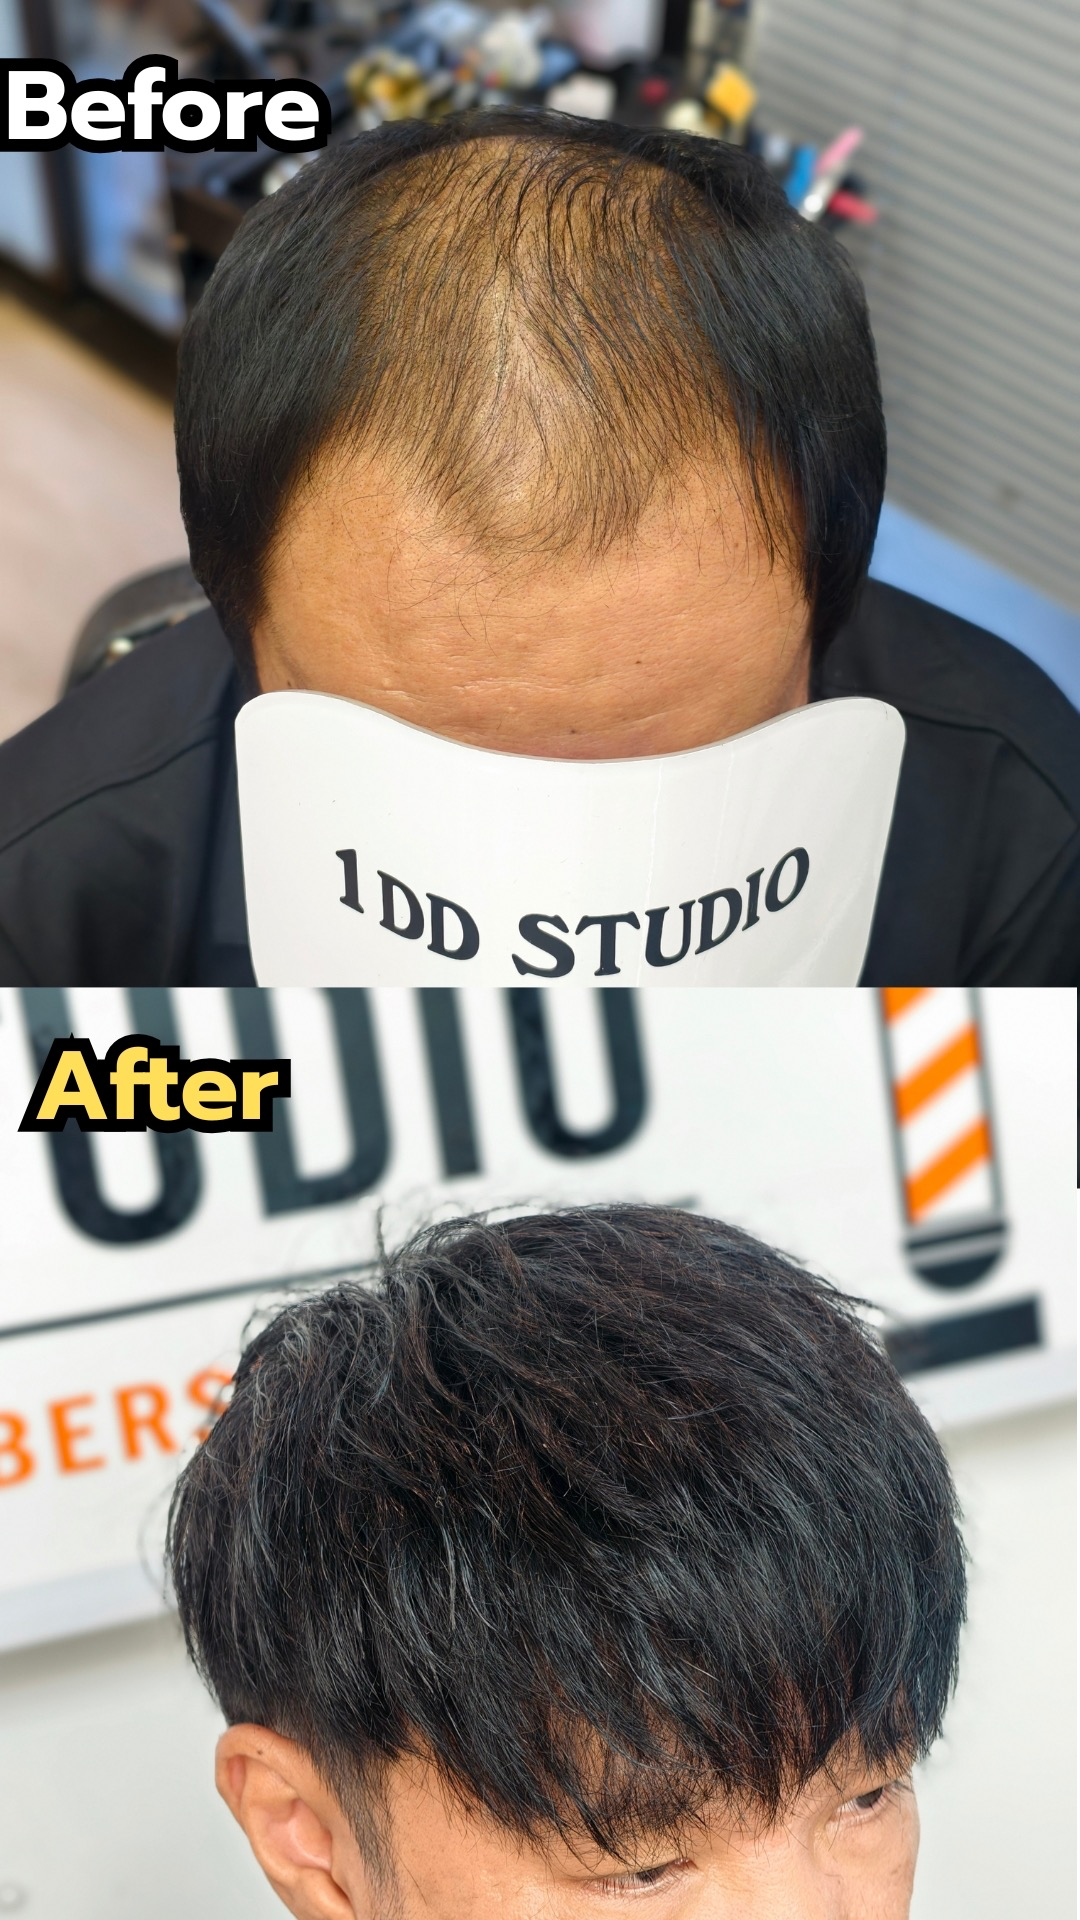
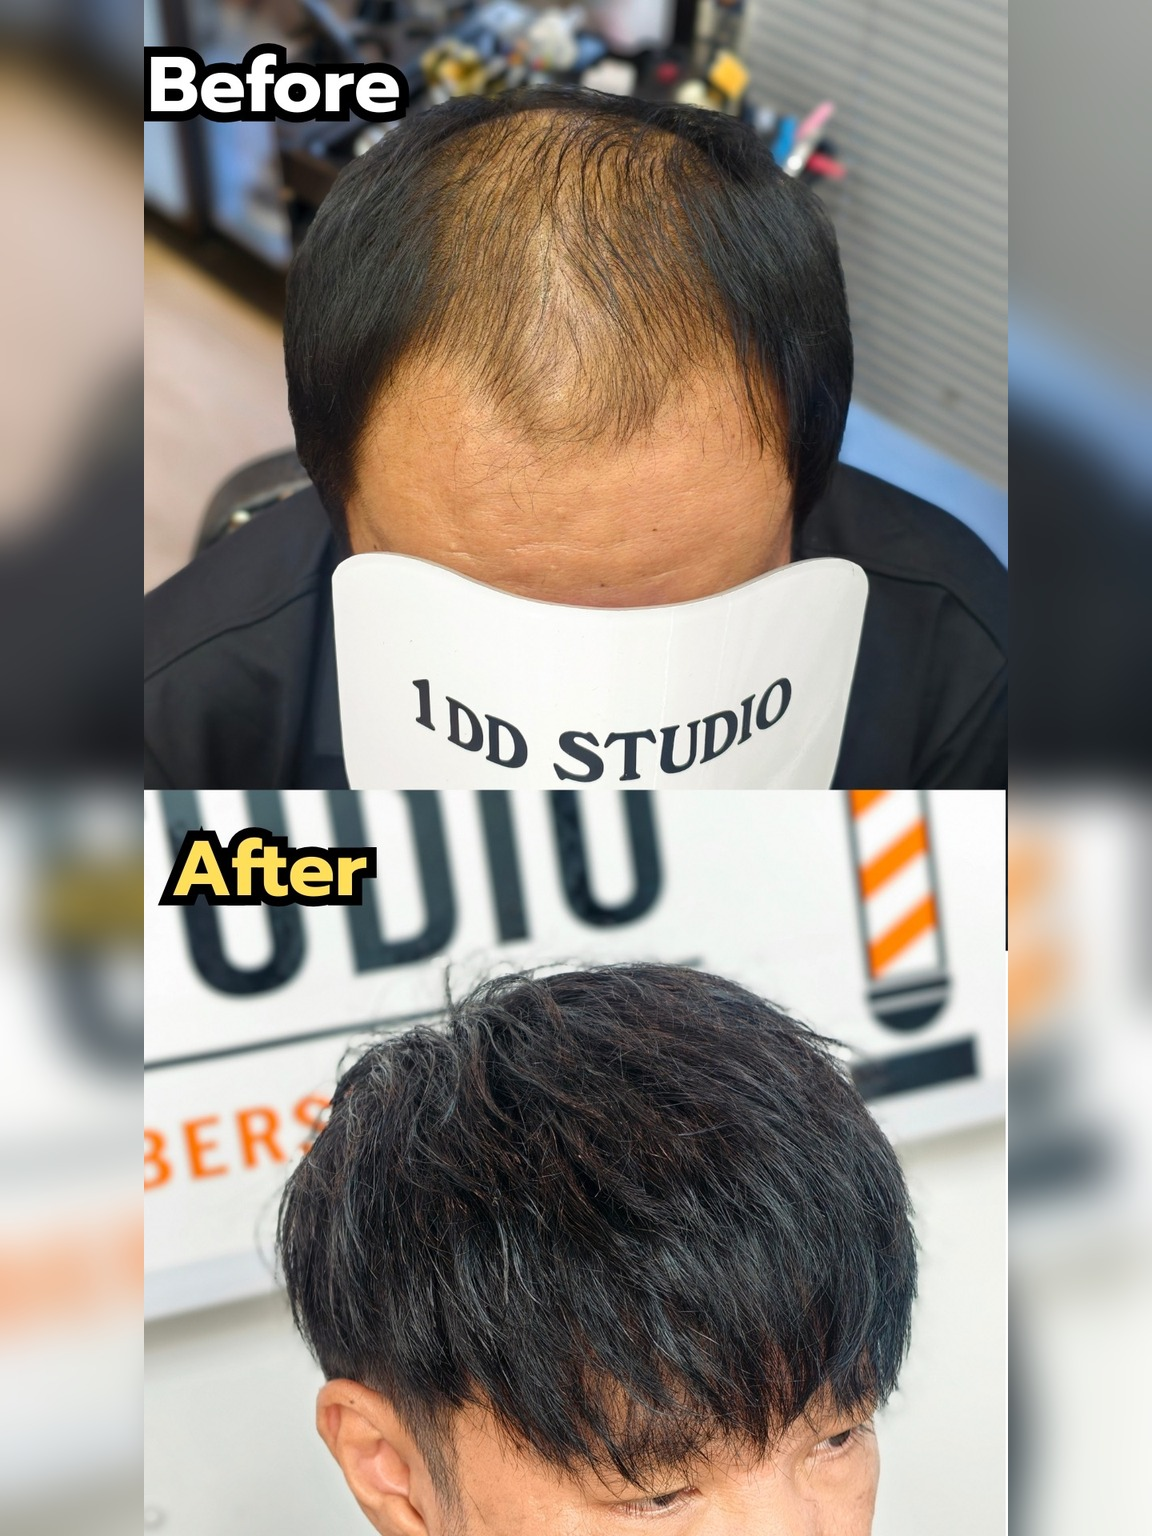
Add files via upload

diff --git a/styles.css b/styles.css
@@ -1,1 +1,77 @@
 :root{--black:#070707;--deep:#111;--gold:#d8ad52;--gold2:#f3cf78;--cream:#f7f0e4;--muted:#9b9286;--white:#fff;--line:rgba(255,255,255,.14);--shadow:0 24px 80px rgba(0,0,0,.35)}*{box-sizing:border-box}html{scroll-behavior:smooth}body{margin:0;font-family:Prompt,system-ui,sans-serif;background:var(--black);color:var(--white)}a{text-decoration:none;color:inherit}.site-shell{overflow:hidden}.topbar{position:fixed;z-index:50;top:0;left:0;right:0;height:72px;display:flex;align-items:center;justify-content:space-between;padding:0 6vw;background:rgba(5,5,5,.82);backdrop-filter:blur(18px);border-bottom:1px solid var(--line)}.logo{font-weight:800;font-size:22px;letter-spacing:.5px;line-height:1}.logo span{color:var(--gold2)}.logo small{display:block;font-size:8px;color:var(--muted);letter-spacing:1.2px;margin-top:3px}nav{display:flex;gap:30px;font-size:14px;color:#e7dfd1}nav a{opacity:.86}.nav-cta,.btn{display:inline-flex;align-items:center;justify-content:center;border-radius:14px;padding:13px 22px;font-weight:700}.nav-cta,.btn.primary{background:linear-gradient(135deg,var(--gold2),var(--gold));color:#18120a;box-shadow:0 8px 25px rgba(216,173,82,.28)}.btn.ghost{border:1px solid rgba(255,255,255,.28);color:white;background:rgba(255,255,255,.04)}.hero{min-height:760px;position:relative;padding:120px 6vw 70px;display:flex;align-items:center}.hero-bg{position:absolute;inset:0;background:url('hero-1.jpg') center/cover no-repeat;filter:saturate(.95) contrast(1.08)}.hero-overlay{position:absolute;inset:0;background:linear-gradient(90deg,rgba(0,0,0,.9),rgba(0,0,0,.55),rgba(0,0,0,.72)),radial-gradient(circle at 75% 25%,rgba(216,173,82,.16),transparent 35%)}.hero-grid{position:relative;width:100%;display:grid;grid-template-columns:minmax(0,1.05fr) minmax(350px,.7fr);gap:48px;align-items:center}.eyebrow{color:var(--gold2);font-size:13px;font-weight:800;letter-spacing:2px;text-transform:uppercase}.hero h1{font-size:clamp(46px,6vw,82px);line-height:1.03;margin:16px 0 22px;max-width:760px}.hero-sub{font-size:21px;line-height:1.75;color:#f3eee6;max-width:780px}.hero-sub-en{color:#c7bdad;line-height:1.65;max-width:760px}.trust-row{display:flex;flex-wrap:wrap;gap:14px;margin:30px 0}.trust-row span{border:1px solid rgba(216,173,82,.35);border-radius:999px;padding:9px 13px;color:#efe4ce;font-size:13px;background:rgba(0,0,0,.35)}.hero-actions{display:flex;gap:14px;flex-wrap:wrap}.hero-card{min-height:420px;border:1px solid rgba(255,255,255,.14);border-radius:30px;background:linear-gradient(180deg,rgba(255,255,255,.1),rgba(255,255,255,.03));box-shadow:var(--shadow);padding:34px;display:flex;flex-direction:column;justify-content:space-between}.studio-badge{text-align:right}.studio-badge b{display:block;color:var(--gold2);font-size:26px}.studio-badge span{display:block;letter-spacing:1px}.studio-badge small{display:block;color:#d0c7b8;margin-top:16px}.mini-video{display:flex;align-items:center;gap:18px}.mini-video span{width:72px;height:72px;border-radius:50%;border:1px solid white;display:grid;place-items:center}.mini-video p{color:#eee}.ba-section,.services,.faq{padding:82px 6vw;background:#0b0b0b}.section-head{max-width:760px;margin-bottom:34px}.section-head h2{font-size:clamp(32px,4vw,56px);line-height:1.16;margin:8px 0}.section-head p{color:#c9c0b2}.ba-grid{display:grid;grid-template-columns:repeat(2,minmax(0,1fr));gap:26px}.ba-card{background:#151515;border:1px solid var(--line);border-radius:28px;overflow:hidden;box-shadow:var(--shadow)}.ba-images{display:grid;grid-template-columns:1fr 1fr}.ba-img{height:360px;background:center/cover no-repeat;position:relative}.ba-img:after{content:attr(data-label);position:absolute;left:16px;bottom:16px;background:rgba(0,0,0,.72);border-radius:999px;padding:8px 12px;font-size:12px;font-weight:700}.ba-info{padding:22px}.ba-info h3{margin:0 0 8px;font-size:22px}.ba-info p{color:#c9c0b2;margin:0}.proof-strip{display:grid;grid-template-columns:repeat(4,1fr);gap:1px;background:#222;padding:1px}.proof-item{background:#111;padding:34px 6vw;text-align:center}.proof-item b{font-size:36px;color:var(--gold2)}.proof-item span{display:block;color:#d7ccbb}.products,.reviews{background:var(--cream);color:#111;padding:90px 6vw}.dark-text .eyebrow{color:#9d7322}.dark-text p{color:#6d6255}.product-grid{display:grid;grid-template-columns:repeat(3,minmax(0,1fr));gap:24px}.product-card{background:#fff;border-radius:28px;border:1px solid #eadfcd;box-shadow:0 18px 50px rgba(52,36,12,.12);overflow:hidden}.product-image{height:230px;background:center/contain no-repeat #fbf8f1}.product-card-content{padding:24px}.product-card h3{font-size:25px;margin:0 0 6px}.price{font-size:28px;font-weight:800;color:#a47418}.product-card ul{padding:0;margin:18px 0 0;list-style:none}.product-card li{margin:10px 0;color:#51483f}.product-card li:before{content:'✓';color:#b9811d;font-weight:800;margin-right:9px}.service-grid{display:grid;grid-template-columns:repeat(5,1fr);gap:16px}.service-item{border:1px solid var(--line);border-radius:22px;padding:22px;background:#141414}.service-item b{color:var(--gold2)}.review-grid{display:grid;grid-template-columns:repeat(3,1fr);gap:20px}.review-card{background:#fff;border-radius:24px;padding:26px;border:1px solid #eadfcd;box-shadow:0 18px 50px rgba(52,36,12,.08)}.review-card p{color:#51483f}.review-card b{color:#a47418}.faq-list{max-width:960px}.faq-item{border-bottom:1px solid var(--line);padding:20px 0}.faq-q{display:flex;justify-content:space-between;cursor:pointer;font-size:20px;font-weight:700}.faq-a{display:none;color:#c9c0b2;line-height:1.8;padding-top:10px}.faq-item.open .faq-a{display:block}.contact{padding:90px 6vw;background:#050505}.contact-card{display:grid;grid-template-columns:1fr 1fr;gap:30px;border:1px solid rgba(216,173,82,.25);background:linear-gradient(135deg,rgba(216,173,82,.13),rgba(255,255,255,.04));border-radius:34px;padding:34px;box-shadow:var(--shadow)}.contact-card h2{font-size:44px;margin:8px 0}.contact-actions{display:flex;gap:12px;flex-wrap:wrap;margin-top:24px}.contact iframe{width:100%;height:360px;border:0;border-radius:24px;filter:saturate(.9)}.floating-line{position:fixed;right:22px;bottom:22px;z-index:60;background:linear-gradient(135deg,var(--gold2),var(--gold));color:#161008;font-weight:800;border-radius:999px;padding:16px 20px;box-shadow:0 14px 40px rgba(0,0,0,.34)}footer{text-align:center;padding:28px;color:#897e70;background:#030303}.reveal{animation:fadeUp .8s ease both}.delay{animation-delay:.18s}@keyframes fadeUp{from{opacity:0;transform:translateY(24px)}to{opacity:1;transform:none}}@media(max-width:900px){.topbar{height:auto;padding:14px 18px;gap:12px;flex-wrap:wrap}nav{order:3;width:100%;overflow:auto;gap:18px}.nav-cta{padding:10px 14px}.hero{padding:150px 22px 56px;min-height:auto}.hero-grid,.contact-card{grid-template-columns:1fr}.hero-card{min-height:260px}.ba-grid,.product-grid,.review-grid{grid-template-columns:1fr}.proof-strip{grid-template-columns:repeat(2,1fr)}.proof-item{padding:24px 12px}.service-grid{grid-template-columns:1fr}.hero h1{font-size:43px}.ba-img{height:250px}}
+
+
+/* 1DD STUDIO V3 Stable Patch: keep V2 layout, only improve Before/After and proof spacing */
+.ba-grid{
+  display:block !important;
+  max-width:780px !important;
+  margin:0 auto !important;
+}
+.ba-slider-v3{
+  display:grid;
+  grid-template-columns:42px minmax(0,1fr) 42px;
+  gap:12px;
+  align-items:center;
+}
+.ba-card-v3{
+  max-width:680px !important;
+  margin:0 auto !important;
+  border-radius:24px !important;
+}
+.ba-images-v3{
+  display:grid !important;
+  grid-template-columns:1fr 1fr !important;
+  aspect-ratio:3 / 2 !important;
+  max-height:330px !important;
+  background:#0b0b0b !important;
+}
+.ba-img-v3{
+  height:auto !important;
+  min-height:300px !important;
+  background-size:contain !important;
+  background-position:center !important;
+  background-repeat:no-repeat !important;
+  background-color:#0b0b0b !important;
+}
+.ba-nav-btn{
+  width:42px;
+  height:42px;
+  border-radius:50%;
+  border:1px solid rgba(216,173,82,.55);
+  background:rgba(216,173,82,.12);
+  color:var(--gold2);
+  font-size:28px;
+  line-height:1;
+  cursor:pointer;
+}
+.ba-dots-v3{
+  display:flex;
+  justify-content:center;
+  gap:9px;
+  margin-top:16px;
+}
+.ba-dots-v3 button{
+  width:9px;
+  height:9px;
+  border-radius:50%;
+  border:0;
+  background:#555;
+  cursor:pointer;
+}
+.ba-dots-v3 button.active{background:var(--gold2)}
+.proof-strip{grid-template-columns:repeat(3,1fr) !important;}
+.product-card:nth-child(2){background:#fff !important;color:#111 !important;border-color:#eadfcd !important;}
+.product-card:nth-child(2) .product-card-content,
+.product-card:nth-child(2) h3,
+.product-card:nth-child(2) p,
+.product-card:nth-child(2) li{color:#111 !important;}
+.product-card:nth-child(2) .price{color:#a47418 !important;}
+@media(max-width:900px){
+  .ba-grid{max-width:100% !important;}
+  .ba-slider-v3{grid-template-columns:36px minmax(0,1fr) 36px;gap:8px;}
+  .ba-card-v3{border-radius:20px !important;}
+  .ba-images-v3{grid-template-columns:1fr !important;aspect-ratio:auto !important;max-height:none !important;}
+  .ba-img-v3{height:240px !important;min-height:240px !important;}
+  .ba-nav-btn{width:36px;height:36px;font-size:24px;}
+  .proof-strip{grid-template-columns:1fr !important;}
+}

diff --git a/script.js b/script.js
@@ -17,14 +17,29 @@ async function loadContent(){
   document.getElementById('contactInfo').innerHTML = `${brand.location}<br>เปิดบริการ ${brand.hours}<br>โทร ${brand.phone} • LINE: ${brand.lineId}`;
   document.getElementById('mapFrame').src = brand.mapUrl;
 
-  document.getElementById('baGrid').innerHTML = data.beforeAfter.map(item=>`
-    <article class="ba-card reveal">
-      <div class="ba-images">
-        <div class="ba-img" data-label="ก่อนทำ" style="background-image:url('${item.before}')"></div>
-        <div class="ba-img" data-label="หลังทำ" style="background-image:url('${item.after}')"></div>
+  let baIndex = 0;
+  function renderBeforeAfter(){
+    const item = data.beforeAfter[baIndex];
+    document.getElementById('baGrid').innerHTML = `
+      <div class="ba-slider-v3 reveal">
+        <button class="ba-nav-btn" id="baPrev" aria-label="ก่อนหน้า">‹</button>
+        <article class="ba-card ba-card-v3">
+          <div class="ba-images ba-images-v3">
+            <div class="ba-img ba-img-v3" data-label="ก่อนทำ" style="background-image:url('${item.before}')"></div>
+            <div class="ba-img ba-img-v3" data-label="หลังทำ" style="background-image:url('${item.after}')"></div>
+          </div>
+          <div class="ba-info"><h3>${item.title}</h3><p>${item.note}</p></div>
+        </article>
+        <button class="ba-nav-btn" id="baNext" aria-label="ถัดไป">›</button>
       </div>
-      <div class="ba-info"><h3>${item.title}</h3><p>${item.note}</p></div>
-    </article>`).join('');
+      <div class="ba-dots-v3">
+        ${data.beforeAfter.map((_,i)=>`<button class="${i===baIndex?'active':''}" data-ba="${i}" aria-label="เคส ${i+1}"></button>`).join('')}
+      </div>`;
+    document.getElementById('baPrev').onclick = () => { baIndex = (baIndex - 1 + data.beforeAfter.length) % data.beforeAfter.length; renderBeforeAfter(); };
+    document.getElementById('baNext').onclick = () => { baIndex = (baIndex + 1) % data.beforeAfter.length; renderBeforeAfter(); };
+    document.querySelectorAll('[data-ba]').forEach(btn=>btn.onclick = () => { baIndex = Number(btn.dataset.ba); renderBeforeAfter(); });
+  }
+  renderBeforeAfter();
 
   document.getElementById('proofStrip').innerHTML = data.proof.map(p=>`<div class="proof-item"><b>${p.value}</b><span>${p.label}</span></div>`).join('');
 

diff --git a/README.md b/README.md
@@ -1,14 +1,10 @@
-# 1DD STUDIO V3 QR FIX
+# 1DD STUDIO V3 Stable Correct
 
-เวอร์ชันนี้ใช้ V2 เป็นฐานเดิม และแก้เฉพาะรูปสินค้า 2–3 โดยลบ QR Code ออกจากรูปแบบแนบเนียน
+ฐาน V2 เดิมทั้งหมด ปรับเฉพาะ:
+- Before/After เป็นสไลด์ทีละเคส ขนาดเล็กลงและบาลานซ์
+- รูป BA ปรับเป็น 1152x1536 px
+- ลบ 500+ เคสที่ดูแล
+- เปลี่ยนสินค้า Standard/HS1 และ Premium/HS1E ไปใช้รูปไม่มี QR: standard-clean.jpg, premium-clean.jpg
+- ไม่รื้อแพทเทิร์น V2 เดิม
 
-ไฟล์สำคัญ:
-- index.html
-- styles.css
-- script.js
-- content.json
-- essential.jpg
-- standard.jpg
-- premium.jpg
-
-วิธีอัปโหลด: GitHub > 1DDSTUDIO > + > Upload files > ลากไฟล์ทั้งหมด > Commit changes
+วิธีอัปโหลด: แตก ZIP > GitHub 1DDSTUDIO > + > Upload files > ลากไฟล์ทั้งหมด > Commit changes > รอ Netlify 30–60 วินาที
